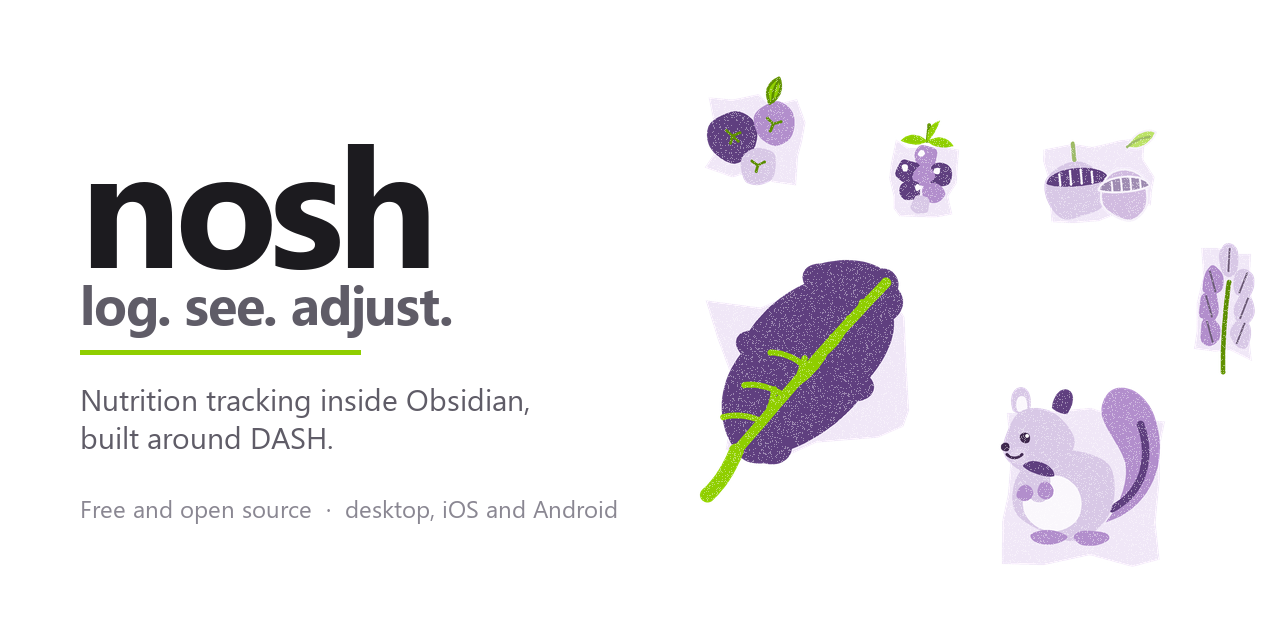
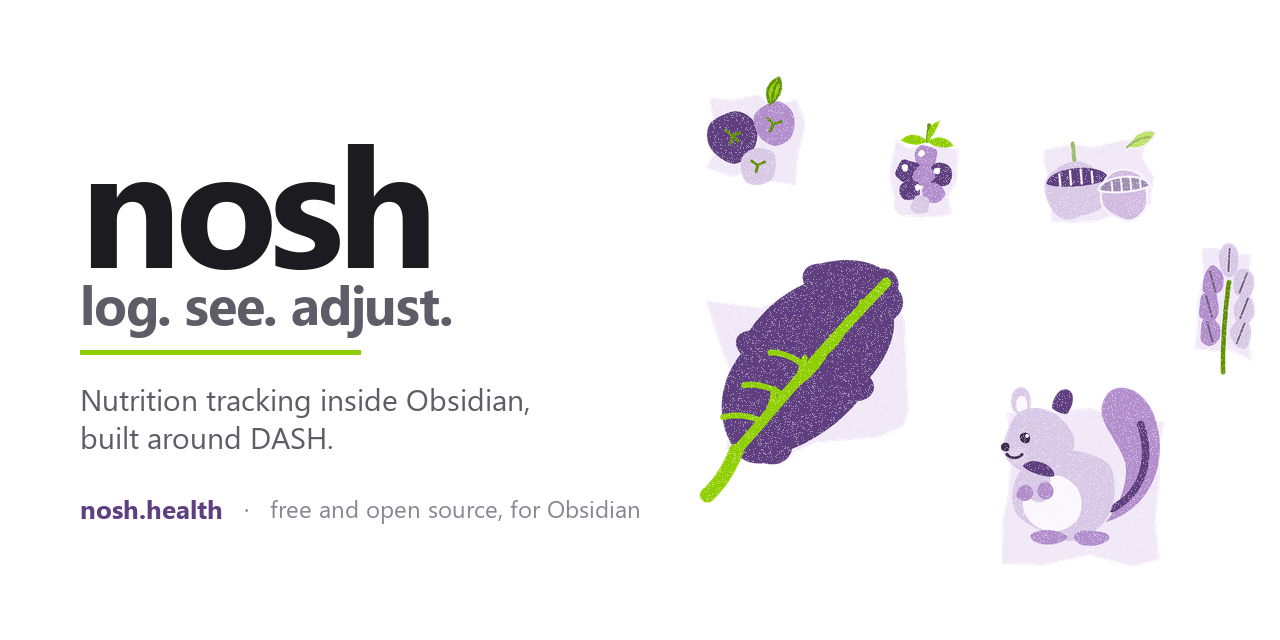
Lay the food over the phone, and point everything at nosh.health
The illustrations sit above the phone now and lean a little further
onto it. The page carries a canonical link and absolute Open Graph and
Twitter tags, and the social card signs off with the domain.

Changed region(s): [[0.0625, 0.7812, 0.5, 0.8125]]

diff --git a/site/index.html b/site/index.html
@@ -6,13 +6,20 @@
 <title>Nosh for Obsidian</title>
 <meta name="description" content="Nosh logs meals and ingredients from the notes you already keep in Obsidian and adds them up against DASH targets, on desktop and phone.">
 <meta name="color-scheme" content="light dark">
-<!-- Link previews. Swap the two image paths for absolute URLs once the site has a domain. -->
+<link rel="canonical" href="https://nosh.health/">
 <meta property="og:type" content="website">
+<meta property="og:url" content="https://nosh.health/">
+<meta property="og:site_name" content="nosh">
 <meta property="og:title" content="nosh — log. see. adjust.">
 <meta property="og:description" content="A nutrition tracker for Obsidian, built around DASH. Log meals from your own notes. Nothing leaves your vault.">
-<meta property="og:image" content="social-card.png">
+<meta property="og:image" content="https://nosh.health/social-card.png">
+<meta property="og:image:width" content="1280">
+<meta property="og:image:height" content="640">
+<meta property="og:image:alt" content="nosh — log. see. adjust.">
 <meta name="twitter:card" content="summary_large_image">
-<meta name="twitter:image" content="social-card.png">
+<meta name="twitter:title" content="nosh — log. see. adjust.">
+<meta name="twitter:description" content="A nutrition tracker for Obsidian, built around DASH. Log meals from your own notes. Nothing leaves your vault.">
+<meta name="twitter:image" content="https://nosh.health/social-card.png">
 <link rel="preconnect" href="https://fonts.googleapis.com">
 <link rel="preconnect" href="https://fonts.gstatic.com" crossorigin>
 <link href="https://fonts.googleapis.com/css2?family=Inter:wght@500;600;700&family=Krub:wght@400;500;600&display=swap" rel="stylesheet">
@@ -256,20 +263,20 @@ button { font: inherit; color: inherit; }
 
 .hero-media { position: relative; display: grid; place-items: center; min-height: 560px; }
 .hero-media .phone { position: relative; z-index: 2; }
-.food { position: absolute; z-index: 1; will-change: transform; pointer-events: none; }
+.food { position: absolute; z-index: 3; will-change: transform; pointer-events: none; }
 .riso-defs { position: absolute; width: 0; height: 0; overflow: hidden; }
 .food svg { display: block; width: 100%; height: auto; overflow: visible; animation: float 7s ease-in-out infinite; }
-.food-berries { width: 104px; top: 3%; left: calc(50% - 220px); }
+.food-berries { width: 104px; top: 3%; left: calc(50% - 210px); }
 .food-berries svg { animation-duration: 8s; }
-.food-leaf { width: 136px; bottom: 5%; left: calc(50% - 234px); }
+.food-leaf { width: 136px; bottom: 5%; left: calc(50% - 222px); }
 .food-leaf svg { animation-duration: 9s; animation-delay: -3s; }
-.food-oat { width: 92px; top: 8%; right: calc(50% - 208px); }
+.food-oat { width: 92px; top: 8%; right: calc(50% - 198px); }
 .food-oat svg { animation-duration: 7.5s; animation-delay: -1.5s; }
-.food-raspberry { width: 68px; top: 41%; left: calc(50% - 194px); }
+.food-raspberry { width: 68px; top: 41%; left: calc(50% - 186px); }
 .food-raspberry svg { animation-duration: 6.5s; animation-delay: -2.5s; }
-.food-nuts { width: 96px; top: 50%; right: calc(50% - 212px); }
+.food-nuts { width: 96px; top: 50%; right: calc(50% - 202px); }
 .food-nuts svg { animation-duration: 8.5s; animation-delay: -5s; }
-.food-squirrel { width: 150px; bottom: -2%; right: calc(50% - 230px); z-index: 3; }
+.food-squirrel { width: 150px; bottom: -2%; right: calc(50% - 230px); }
 .food-squirrel svg { animation-duration: 9s; animation-delay: -1s; }
 .tail-sway { transform-box: view-box; transform-origin: 96px 116px; animation: tail 4.5s ease-in-out infinite; }
 @keyframes tail { 0%, 100% { transform: rotate(-3deg); } 50% { transform: rotate(4deg); } }
@@ -284,11 +291,11 @@ button { font: inherit; color: inherit; }
   .hero .wrap { grid-template-columns: 1fr; }
   .hero-media { min-height: 0; margin-top: 8px; }
   .hero-media .phone { --phone-w: 260px; }
-  .food-berries { top: 0; left: calc(50% - 182px); width: 78px; }
-  .food-leaf { bottom: 3%; left: calc(50% - 192px); width: 100px; }
-  .food-oat { top: 4%; right: calc(50% - 172px); width: 68px; }
-  .food-raspberry { top: 42%; left: calc(50% - 162px); width: 50px; }
-  .food-nuts { top: 48%; right: calc(50% - 172px); width: 68px; }
+  .food-berries { top: 0; left: calc(50% - 174px); width: 78px; }
+  .food-leaf { bottom: 3%; left: calc(50% - 182px); width: 100px; }
+  .food-oat { top: 4%; right: calc(50% - 164px); width: 68px; }
+  .food-raspberry { top: 42%; left: calc(50% - 156px); width: 50px; }
+  .food-nuts { top: 48%; right: calc(50% - 164px); width: 68px; }
   .food-squirrel { bottom: -2%; right: calc(50% - 188px); width: 108px; }
   .stats { gap: 20px; }
   .stat b { font-size: 1.5rem; }
